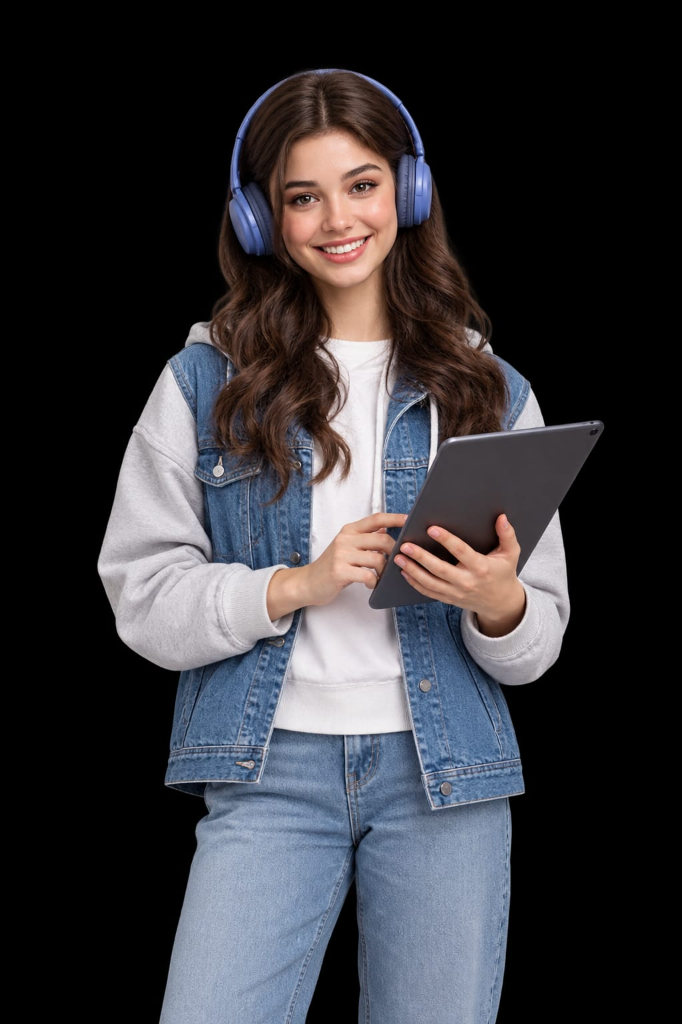
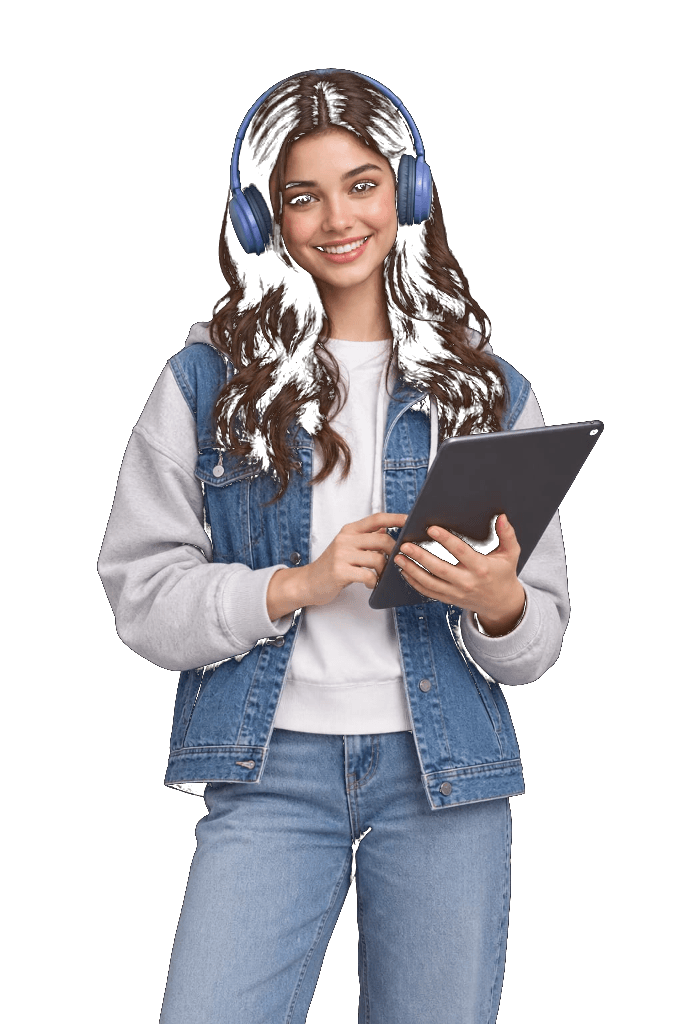
feat: cleanly remove black backgrounds from portraits via alpha channel flood-fill

diff --git a/remove-bg.js b/remove-bg.js
@@ -1,0 +1,153 @@
+const sharp = require('sharp');
+const path = require('path');
+const fs = require('fs');
+
+async function removeBlackBackground(inputPath, outputPath, threshold = 25) {
+  console.log(`Processing: ${inputPath}`);
+  const image = sharp(inputPath);
+  const metadata = await image.metadata();
+  const { width, height } = metadata;
+
+  // Extract raw RGBA channels
+  const { data, info } = await image
+    .ensureAlpha()
+    .raw()
+    .toBuffer({ resolveWithObject: true });
+
+  const channels = info.channels; // 4 (RGBA)
+  const isBg = new Uint8Array(width * height);
+  const visited = new Uint8Array(width * height);
+  const queue = [];
+
+  function getIdx(x, y) {
+    return (y * width + x) * channels;
+  }
+
+  function isNearBlack(x, y) {
+    const idx = getIdx(x, y);
+    const r = data[idx];
+    const g = data[idx + 1];
+    const b = data[idx + 2];
+    // Max brightness among RGB
+    return Math.max(r, g, b) <= threshold;
+  }
+
+  // Seed BFS from all borders
+  for (let x = 0; x < width; x++) {
+    // Top border
+    if (isNearBlack(x, 0)) {
+      const idx = 0 * width + x;
+      if (!visited[idx]) {
+        visited[idx] = 1;
+        isBg[idx] = 1;
+        queue.push([x, 0]);
+      }
+    }
+    // Bottom border
+    if (isNearBlack(x, height - 1)) {
+      const idx = (height - 1) * width + x;
+      if (!visited[idx]) {
+        visited[idx] = 1;
+        isBg[idx] = 1;
+        queue.push([x, height - 1]);
+      }
+    }
+  }
+
+  for (let y = 0; y < height; y++) {
+    // Left border
+    if (isNearBlack(0, y)) {
+      const idx = y * width + 0;
+      if (!visited[idx]) {
+        visited[idx] = 1;
+        isBg[idx] = 1;
+        queue.push([0, y]);
+      }
+    }
+    // Right border
+    if (isNearBlack(width - 1, y)) {
+      const idx = y * width + (width - 1);
+      if (!visited[idx]) {
+        visited[idx] = 1;
+        isBg[idx] = 1;
+        queue.push([width - 1, y]);
+      }
+    }
+  }
+
+  // Run BFS
+  let head = 0;
+  const dirs = [
+    [1, 0], [-1, 0], [0, 1], [0, -1]
+  ];
+
+  while (head < queue.length) {
+    const [cx, cy] = queue[head++];
+    for (const [dx, dy] of dirs) {
+      const nx = cx + dx;
+      const ny = cy + dy;
+      if (nx >= 0 && nx < width && ny >= 0 && ny < height) {
+        const nIdx = ny * width + nx;
+        if (!visited[nIdx]) {
+          visited[nIdx] = 1;
+          if (isNearBlack(nx, ny)) {
+            isBg[nIdx] = 1;
+            queue.push([nx, ny]);
+          }
+        }
+      }
+    }
+  }
+
+  // Apply transparency to background
+  for (let y = 0; y < height; y++) {
+    for (let x = 0; x < width; x++) {
+      const pixelIdx = y * width + x;
+      const rawIdx = pixelIdx * channels;
+      if (isBg[pixelIdx]) {
+        data[rawIdx + 3] = 0; // Alpha = 0 (Transparent)
+      } else {
+        // Check if neighboring a background pixel for soft edge anti-aliasing
+        const r = data[rawIdx];
+        const g = data[rawIdx + 1];
+        const b = data[rawIdx + 2];
+        const maxVal = Math.max(r, g, b);
+        if (maxVal <= threshold + 25) {
+          // Slight feathering on near-black borders
+          const alphaFactor = (maxVal - threshold) / 25;
+          data[rawIdx + 3] = Math.max(0, Math.min(255, Math.floor(alphaFactor * 255)));
+        }
+      }
+    }
+  }
+
+  // Save back as clean PNG with transparent alpha
+  await sharp(data, {
+    raw: {
+      width,
+      height,
+      channels: 4
+    }
+  })
+    .png({ quality: 100 })
+    .toFile(outputPath);
+
+  console.log(`Saved transparent image to: ${outputPath}`);
+}
+
+async function run() {
+  const imagesDir = path.join(__dirname, 'public', 'images');
+  const heroStudent = path.join(imagesDir, 'hero-student.png');
+  const creatorFemale = path.join(imagesDir, 'creator-female.png');
+
+  await removeBlackBackground(heroStudent, path.join(imagesDir, 'hero-student-transparent.png'), 30);
+  await removeBlackBackground(creatorFemale, path.join(imagesDir, 'creator-female-transparent.png'), 30);
+
+  // Overwrite original with transparent versions
+  fs.copyFileSync(path.join(imagesDir, 'hero-student-transparent.png'), heroStudent);
+  fs.copyFileSync(path.join(imagesDir, 'creator-female-transparent.png'), creatorFemale);
+
+  console.log('Background removal complete!');
+}
+
+run().catch(console.error);
